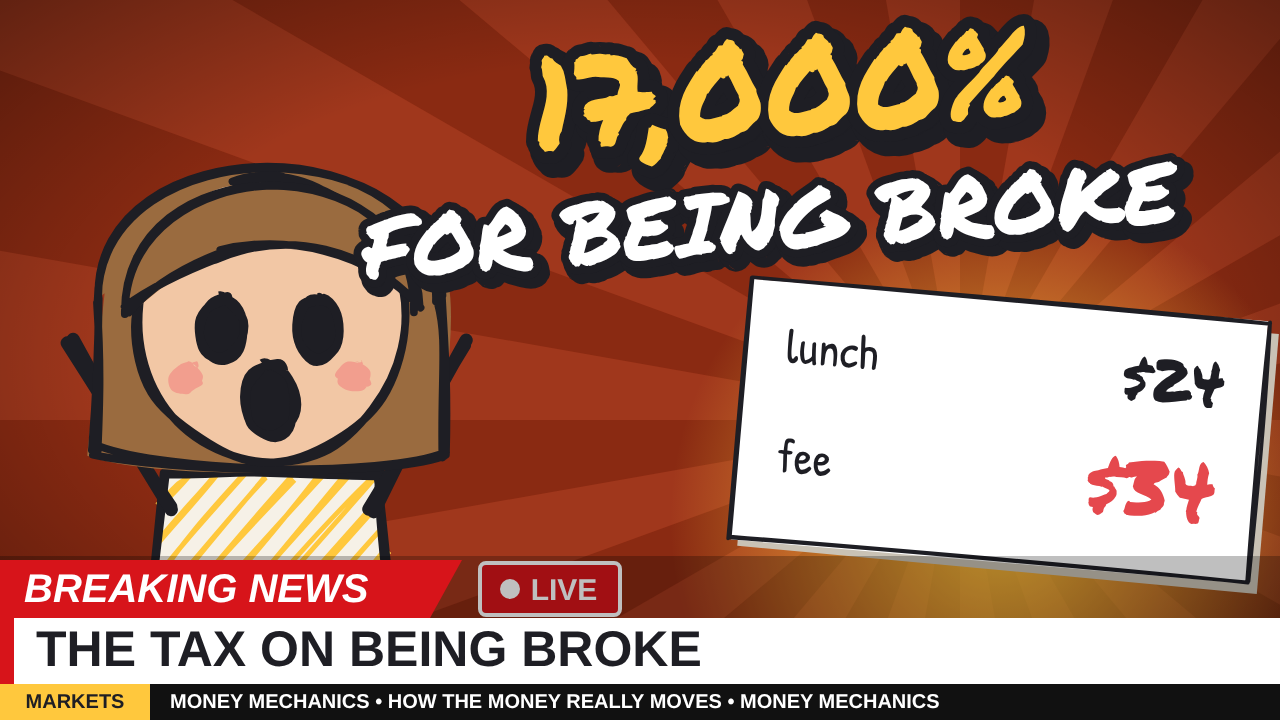
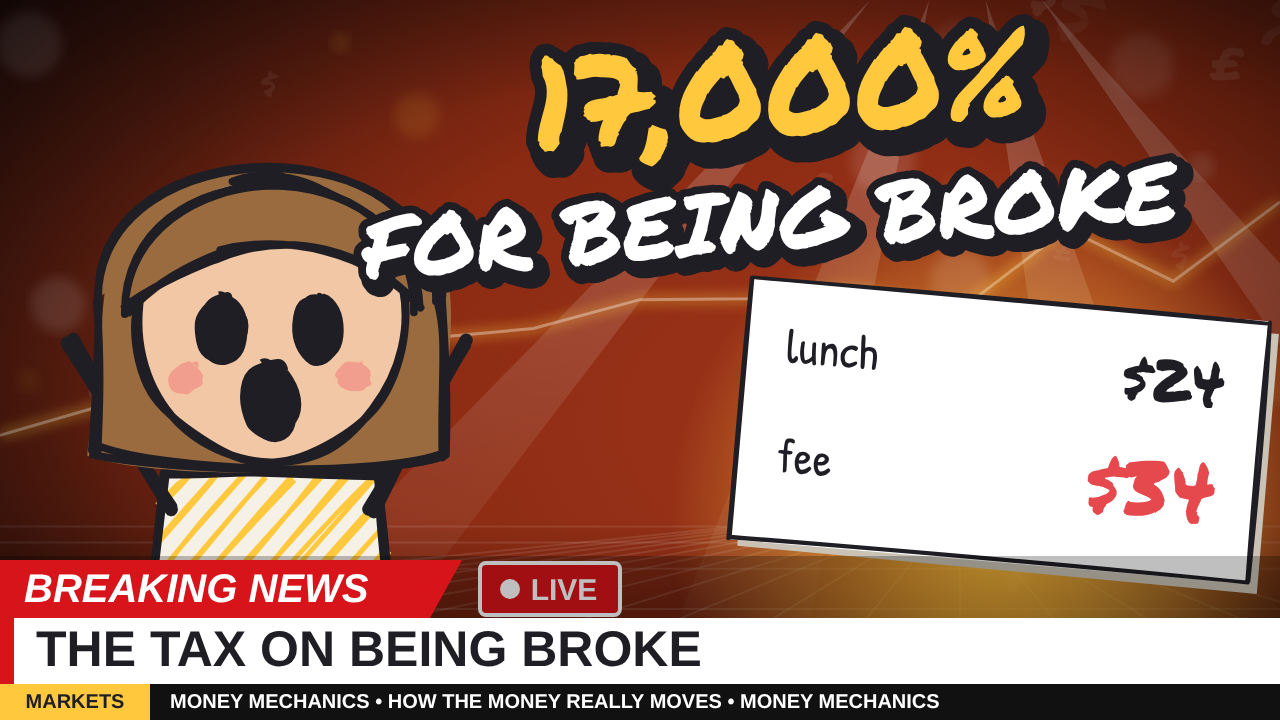
Richer news-studio backgrounds for all thumbnails
Claude-Session: https://claude.ai/code/session_019UqVAbhSHUU6wetyF5bYLf

diff --git a/youtube_channel/animation/src/lib/thumbkit.tsx b/youtube_channel/animation/src/lib/thumbkit.tsx
@@ -4,24 +4,90 @@ import {C, MARKER, R} from './rough';
 
 /** Shared thumbnail kit: saturated sunburst backgrounds, chunky outlined headlines, arrows and glows. */
 
-export const Burst: React.FC<{bg: string; ray: string; cx?: number; cy?: number}> = ({bg, ray, cx = 900, cy = 380}) => (
-	<g>
-		<rect x={0} y={0} width={1280} height={720} fill={bg} />
-		{Array.from({length: 18}).map((_, i) => {
-			const a0 = (i / 18) * Math.PI * 2;
-			const a1 = a0 + Math.PI / 18;
-			const r = 1600;
-			return <path key={i} d={`M ${cx} ${cy} L ${cx + Math.cos(a0) * r} ${cy + Math.sin(a0) * r} L ${cx + Math.cos(a1) * r} ${cy + Math.sin(a1) * r} Z`} fill={ray} />;
-		})}
-		<defs>
-			<radialGradient id="vig" cx="50%" cy="50%" r="75%">
-				<stop offset="55%" stopColor="#000" stopOpacity={0} />
-				<stop offset="100%" stopColor="#000" stopOpacity={0.45} />
-			</radialGradient>
-		</defs>
-		<rect x={0} y={0} width={1280} height={720} fill="url(#vig)" />
-	</g>
-);
+/** Deterministic pseudo-random in [0,1). */
+const rnd = (i: number) => {
+	const x = Math.sin(i * 127.1 + 311.7) * 43758.5453;
+	return x - Math.floor(x);
+};
+
+/**
+ * Thumbnail backdrop: a lit "news studio" look. Deep gradient lit from (cx,cy),
+ * soft light beams, a perspective floor grid, a glowing market line, faint
+ * money symbols, bokeh dots and a vignette.
+ */
+export const Burst: React.FC<{bg: string; ray: string; cx?: number; cy?: number; w?: number; h?: number}> = ({bg, ray, cx = 900, cy = 380, w = 1280, h = 720}) => {
+	const id = bg.replace('#', '');
+	const k = w / 1280;
+	const horizon = h * 0.72;
+	const pts = Array.from({length: 13}).map((_, i) => {
+		const x = (i / 12) * w;
+		const y = h * 0.62 - i * h * 0.025 - (rnd(i + 3) - 0.5) * h * 0.12;
+		return `${x},${y}`;
+	});
+	return (
+		<g>
+			<defs>
+				<radialGradient id={`bgg${id}`} cx={cx / w} cy={cy / h} r={1.1} gradientUnits="objectBoundingBox">
+					<stop offset="0%" stopColor={ray} />
+					<stop offset="45%" stopColor={bg} />
+					<stop offset="100%" stopColor="#05060A" />
+				</radialGradient>
+				<linearGradient id={`beam${id}`} x1="0" y1="0" x2="0" y2="1">
+					<stop offset="0%" stopColor="#FFFFFF" stopOpacity={0.22} />
+					<stop offset="100%" stopColor="#FFFFFF" stopOpacity={0} />
+				</linearGradient>
+				<linearGradient id={`floor${id}`} x1="0" y1="0" x2="0" y2="1">
+					<stop offset="0%" stopColor="#000" stopOpacity={0} />
+					<stop offset="100%" stopColor="#000" stopOpacity={0.55} />
+				</linearGradient>
+				<filter id={`blur${id}`}>
+					<feGaussianBlur stdDeviation={6 * k} />
+				</filter>
+				<radialGradient id={`vig${id}`} cx="50%" cy="50%" r="75%">
+					<stop offset="50%" stopColor="#000" stopOpacity={0} />
+					<stop offset="100%" stopColor="#000" stopOpacity={0.6} />
+				</radialGradient>
+			</defs>
+			<rect x={0} y={0} width={w} height={h} fill={`url(#bgg${id})`} />
+			{/* light beams fanning from the top */}
+			{[-0.35, -0.12, 0.1, 0.32].map((d, i) => (
+				<polygon key={i} points={`${cx + d * w * 0.2},0 ${cx + d * w * 1.6 - w * 0.06},${h} ${cx + d * w * 1.6 + w * 0.06},${h}`} fill={`url(#beam${id})`} />
+			))}
+			{/* faint money symbols */}
+			{Array.from({length: 22}).map((_, i) => (
+				<text
+					key={i}
+					x={rnd(i) * w}
+					y={rnd(i + 50) * h * 0.85}
+					fontFamily={MARKER}
+					fontSize={(28 + rnd(i + 9) * 60) * k}
+					fill="#FFFFFF"
+					opacity={0.05 + rnd(i + 21) * 0.06}
+					transform={`rotate(${(rnd(i + 7) - 0.5) * 40} ${rnd(i) * w} ${rnd(i + 50) * h * 0.85})`}
+				>
+					{['$', '%', '$', '£', '$'][i % 5]}
+				</text>
+			))}
+			{/* glowing market line */}
+			<polyline points={pts.join(' ')} fill="none" stroke={C.yellow} strokeWidth={10 * k} opacity={0.35} filter={`url(#blur${id})`} />
+			<polyline points={pts.join(' ')} fill="none" stroke="#FFFFFF" strokeWidth={3 * k} opacity={0.35} />
+			{/* perspective studio floor */}
+			<rect x={0} y={horizon} width={w} height={h - horizon} fill={`url(#floor${id})`} />
+			{Array.from({length: 17}).map((_, i) => {
+				const x = (i / 16) * w;
+				return <line key={`v${i}`} x1={cx + (x - cx) * 0.15} y1={horizon} x2={cx + (x - cx) * 2.2} y2={h} stroke="#FFFFFF" strokeOpacity={0.1} strokeWidth={2 * k} />;
+			})}
+			{[0.04, 0.12, 0.25, 0.45, 0.75].map((f, i) => (
+				<line key={`h${i}`} x1={0} x2={w} y1={horizon + (h - horizon) * f} y2={horizon + (h - horizon) * f} stroke="#FFFFFF" strokeOpacity={0.1} strokeWidth={2 * k} />
+			))}
+			{/* bokeh */}
+			{Array.from({length: 14}).map((_, i) => (
+				<circle key={`b${i}`} cx={rnd(i + 80) * w} cy={rnd(i + 99) * h * 0.7} r={(8 + rnd(i + 5) * 26) * k} fill={i % 3 ? '#FFFFFF' : C.yellow} opacity={0.06 + rnd(i + 3) * 0.08} filter={`url(#blur${id})`} />
+			))}
+			<rect x={0} y={0} width={w} height={h} fill={`url(#vig${id})`} />
+		</g>
+	);
+};
 
 /** Soft glow behind the hero object. */
 export const Glow: React.FC<{x: number; y: number; r: number; color?: string}> = ({x, y, r, color = C.yellow}) => (

diff --git a/youtube_channel/animation/src/shorts/ShortThumbs.tsx b/youtube_channel/animation/src/shorts/ShortThumbs.tsx
@@ -2,7 +2,7 @@ import React from 'react';
 import {AbsoluteFill} from 'remotion';
 import {Penny, Mood} from '../lib/characters';
 import {C, G} from '../lib/rough';
-import {Glow, Headline, ThumbPenny} from '../lib/thumbkit';
+import {Burst, Glow, Headline, ThumbPenny} from '../lib/thumbkit';
 
 /** Vertical (1080x1920) "Breaking News" covers for the Shorts. */
 type T = {id: string; bg: string; ray: string; top: string; big: string; line2: string; strip: string; mood: Mood};
@@ -12,12 +12,7 @@ const ARIAL = 'Arial Black, Arial, sans-serif';
 const Cover: React.FC<{d: T}> = ({d}) => (
 	<AbsoluteFill>
 		<svg viewBox="0 0 1080 1920" width="100%" height="100%">
-			<rect width={1080} height={1920} fill={d.bg} />
-			{Array.from({length: 20}).map((_, i) => {
-				const a0 = (i / 20) * Math.PI * 2;
-				const a1 = a0 + Math.PI / 20;
-				return <path key={i} d={`M 540 820 L ${540 + Math.cos(a0) * 2200} ${820 + Math.sin(a0) * 2200} L ${540 + Math.cos(a1) * 2200} ${820 + Math.sin(a1) * 2200} Z`} fill={d.ray} />;
-			})}
+			<Burst bg={d.bg} ray={d.ray} cx={540} cy={760} w={1080} h={1920} />
 			{/* breaking banner */}
 			<rect x={0} y={90} width={1080} height={130} fill="#D7141A" />
 			<text x={60} y={160} dominantBaseline="middle" fontFamily={ARIAL} fontWeight={900} fontStyle="italic" fontSize={78} fill={C.white}>
